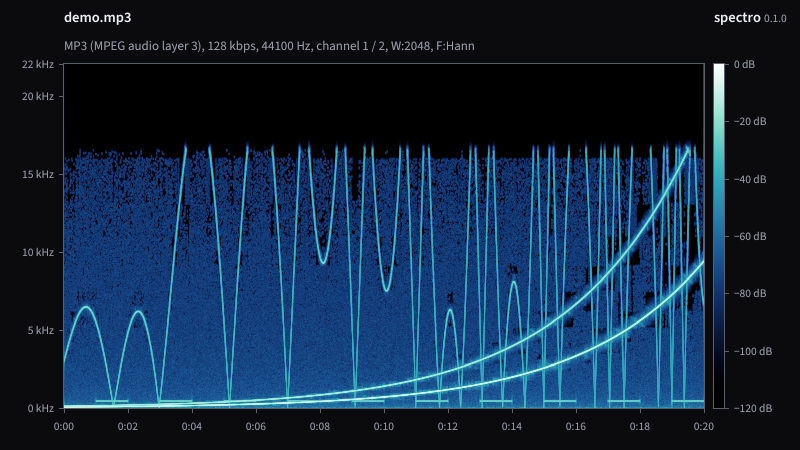
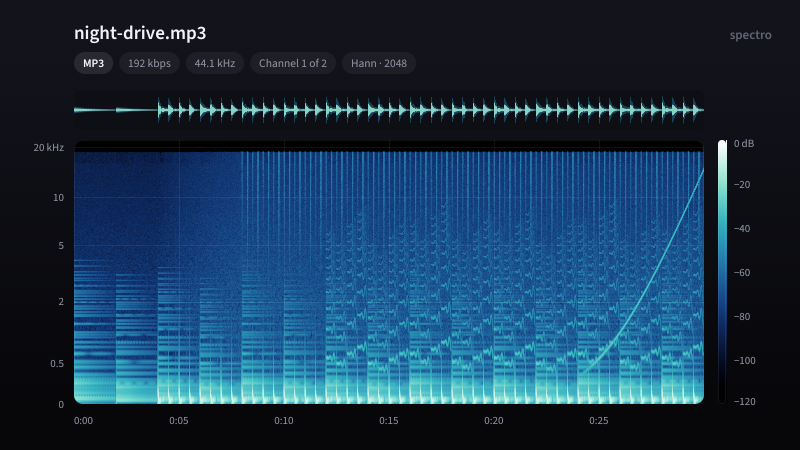
Update README and images for the redesign

diff --git a/README.md b/README.md
@@ -1,11 +1,11 @@
 # spectro
 
-An acoustic spectrum analyser for audio files, written in Rust. It is a
-clone of [Spek](https://github.com/alexkay/spek): open a file and see its
-spectrogram, with the same layout, keys and options. The aim is a small,
-safe program that draws the best-looking spectrograms around.
+An acoustic spectrum analyser for audio files, written in Rust. It does
+everything [Spek](https://github.com/alexkay/spek) does, with the same keys
+and options, in a small, safe program that aims to draw the most beautiful
+spectrograms around.
 
-![spectro showing an MP3 with a 16 kHz encoder cutoff](docs/screenshot.png)
+![spectro showing a synthesised track: chords, a vibrato melody, drums and a rising sweep, with the MP3 encoder's 19 kHz cutoff at the top](docs/screenshot.png)
 
 ## Why
 
@@ -19,7 +19,18 @@ safe program that draws the best-looking spectrograms around.
   crash the decoder, never spectro. File names go to FFmpeg as plain
   arguments with the `file:` prefix, so they are never read as options or
   URLs.
+- **A modern look.** The spectrogram sits in a rounded well on a dark
+  gradient. Faint grid lines run through it, and each unit is written only
+  once. The header shows the file name, its folder, and the stream's details
+  as pills. A loudness waveform runs above the spectrogram, and a
+  scanline sweeps across while it is analysed. Hover to get a crosshair
+  that reads out time, frequency and level.
 - **Better pictures.**
+  - The frequency axis is perceptual (mel) by default: chords, melodies and
+    harmonics get room instead of being squeezed into the bottom fifth,
+    and encoder cutoffs still show at the top. Press `y` for Spek's linear
+    axis or a logarithmic one.
+  - Loud components glow softly (bloom). Press `g` to turn it off.
   - Each column averages the power of up to 24 overlapping windowed FFTs
     across its time slice (Welch's method), so noise looks smooth and tones
     look sharp. Spek takes one FFT per window length and averages in dB.
@@ -37,9 +48,9 @@ safe program that draws the best-looking spectrograms around.
   - Sharp, anti-aliased text and lines at any display scale, including
     Retina/HiDPI, using embedded Source Sans 3 outlines.
 
-| Spectrum (Spek's default) | Glacier |
+| Spek's look: Spectrum palette, linear axis, no glow | Glacier palette |
 | --- | --- |
-| ![Spectrum palette](docs/spectrum.png) | ![Glacier palette](docs/glacier.png) |
+| ![The same track with the Spectrum palette and a linear axis](docs/spectrum.png) | ![The same track with the Glacier palette](docs/glacier.png) |
 
 ## Install
 
@@ -88,9 +99,12 @@ On macOS use Cmd instead of Ctrl.
 | `w`, `W` | Change the DFT window size (256 to 16384) |
 | `u`, `U` | Change the upper limit of the dynamic range in dBFS |
 | `l`, `L` | Change the lower limit of the dynamic range in dBFS |
+| `y`, `Y` | Change the frequency scale (mel, linear, logarithmic) |
+| `g` | Turn the glow on or off |
 | `Esc` | Close a panel |
 
-Palette, window function, window size and range are saved in
+Palette, window function, window size, range, frequency scale and glow
+are saved in
 `~/.config/spectro/preferences` (or `$XDG_CONFIG_HOME`, or `%APPDATA%` on
 Windows).
 
@@ -100,8 +114,11 @@ Windows).
 - `Ctrl-E` shows the current settings. Spek's preferences dialog sets the
   language and update checks; spectro is English only and never uses the
   network.
-- Extra: `--output` and the other command-line options, and the three new
-  palettes.
+- The picture is redesigned (see above). For Spek's look, use
+  `-p spectrum --freq-scale linear --glow off`, or press `p`, `y` and `g`.
+- Extra: the hover readout, the loudness waveform, the frequency scales,
+  the glow, three new palettes, and `--output` with the other command-line
+  options.
 
 ## Layout
 
